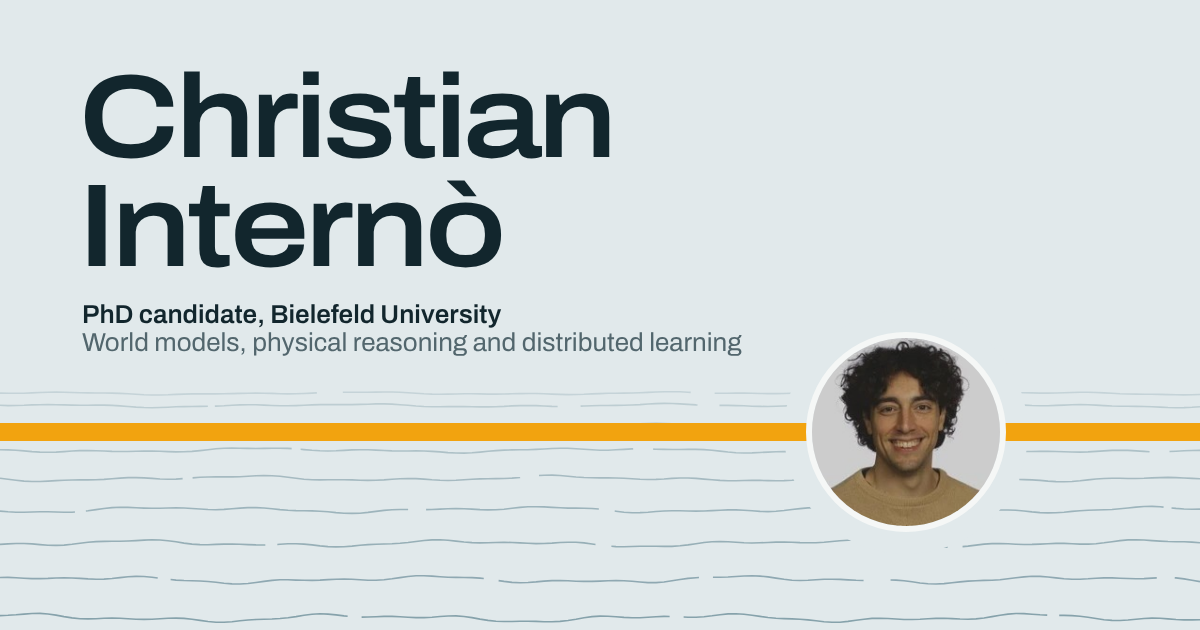
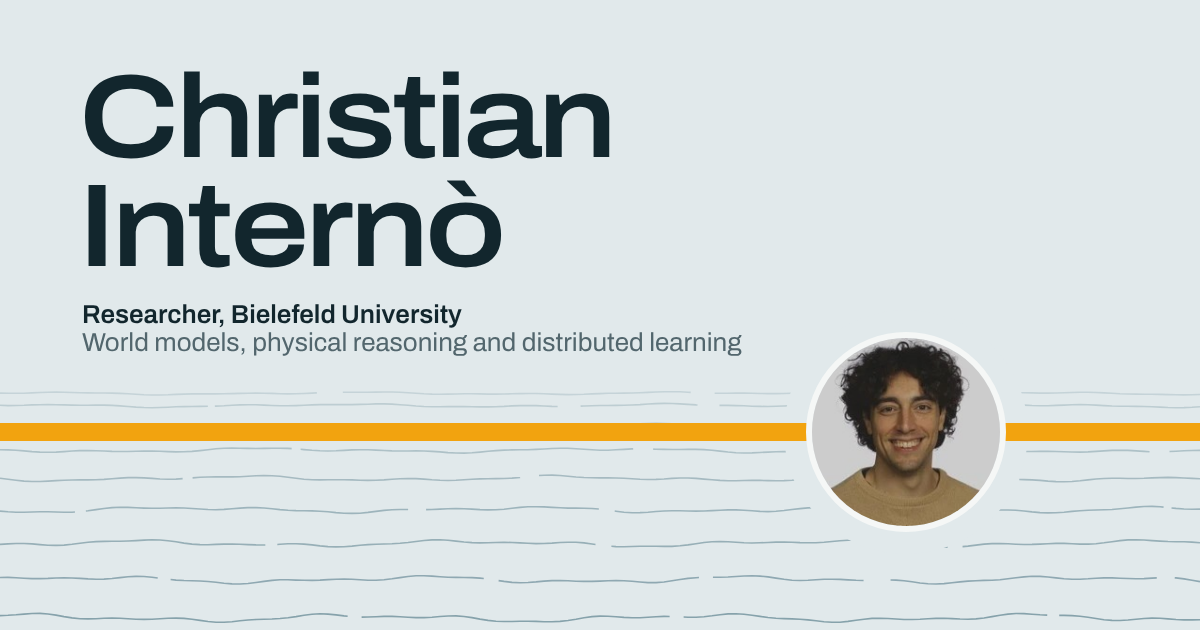
Restructure the bio; let the walkway reach for the news
The About text now follows three paragraphs: position, funding, Oxford and
recent results; the research focus and its aim; distributed learning, visits
and studies. The panel and link preview say "Researcher, Bielefeld
University". With the longer bio, the walkway bends at the edge of the lake
to meet the "Recently" landing and follows it while the page scrolls.

Claude-Session: https://claude.ai/code/session_016HWyQwJ7GHMMbU4mYpH3em

Changed region(s): [[0.0617, 0.4825, 0.4317, 0.5127]]

diff --git a/assets/js/lake.js b/assets/js/lake.js
@@ -94,18 +94,39 @@
       ln.el.setAttribute("points",pts(a));
     });
     V.spans.forEach(function(sp){
-      var len=sp.b-sp.a, n=Math.max(1,Math.ceil(len/6));
-      a=[]; for(i=0;i<=n;i++){ x=sp.a+len*i/n;
-        a.push(x, sp.y+0.75*Math.sin(Math.PI*i/n)*(0.6*swell(x,sp.y)+height(x,sp.y))); }   // moored at both ends
+      a=[];
+      sp.legs.forEach(function(lg){                 // each straight run floats, moored at both ends
+        var len=lg.b-lg.a, n=Math.max(1,Math.ceil(len/6));
+        for(i=0;i<=n;i++){ x=lg.a+len*i/n;
+          a.push(x, lg.y+0.75*Math.sin(Math.PI*i/n)*(0.6*swell(x,lg.y)+height(x,lg.y))); }
+      });
       sp.el.setAttribute("points",pts(a));
     });
+  }
+  function spanLen(sp){var L=0; sp.legs.forEach(function(lg,k){L+=lg.b-lg.a; if(k) L+=Math.abs(lg.y-sp.legs[k-1].y);}); return L;}
+
+  // On the About page the walkway reaches for the news: when the "Recently" landing is level with the
+  // water, the last stretch of the walkway bends to meet it, and follows it while you scroll.
+  var tRaf=0;
+  function requestTether(){ if(!tRaf) tRaf=requestAnimationFrame(function(){tRaf=0; tether(true);}); }
+  function tether(redraw){
+    var T=V&&V.tether; if(!T) return;
+    var entry=T.yIn+shore.getBoundingClientRect().top-lake.getBoundingClientRect().top;
+    var near=entry>=T.lo&&entry<=T.hi, goal=near?entry:T.y0;
+    if(T.locked&&near) T.cur=goal;
+    else { T.cur+=(goal-T.cur)*0.22; if(Math.abs(goal-T.cur)<0.6){T.cur=goal; T.locked=near;} else requestTether(); }
+    if(!near) T.locked=false;
+    var y=Math.round(T.cur);
+    T.sp.legs=Math.abs(y-T.y0)<1?[{a:T.a,b:V.LW,y:T.y0}]:[{a:T.a,b:T.xb,y:T.y0},{a:T.xb,b:V.LW,y:y}];
+    if(redraw) draw();
   }
 
   /* ---------- the walkway on the page ---------- */
   function plen(p){var L=0;for(var i=1;i<p.length;i++)L+=Math.abs(p[i][0]-p[i-1][0])+Math.abs(p[i][1]-p[i-1][1]);return L;}
-  function lay(el,len,delay){       // draw a line in, once, the first time the walkway is laid out
-    el.style.strokeDasharray=len+20; el.style.strokeDashoffset=len+20;
-    el.style.transition="stroke-dashoffset "+Math.round(len/1.1)+"ms linear "+Math.round(delay)+"ms";
+  function lay(el,delay){           // draw a line in, once, the first time the walkway is laid out
+    var BIG=10000;                   // longer than any walkway, so later bends never fall into the gap
+    el.style.strokeDasharray=BIG+" "+BIG; el.style.strokeDashoffset=BIG;
+    el.style.transition="stroke-dashoffset "+Math.round(BIG/1.1)+"ms linear "+Math.round(delay)+"ms";
   }
 
   function layout(){
@@ -126,7 +147,7 @@
     }
     function railFrom(y){return [[-4,y],[railX,y],[railX,bot]];}
 
-    var spans=[], shoreSegs=[], top=0, bottom=0, isle=null;
+    var spans=[], shoreSegs=[], top=0, bottom=0, isle=null, tether_=null;
     if(wide){
       var lk=rel(links,lake), mw=me.offsetWidth, ring=12;
       me.style.left=Math.round(Math.max(ring+16,LW*.22))+"px";
@@ -140,8 +161,13 @@
       me.style.top=Math.round(c-mw/2)+"px";
       var m=rel(me,lake), y0=Math.round(m.cy);
       isle={x:m.cx,y:m.cy,r:m.w/2+ring};
-      spans=[{a:0,b:m.l+2,y:y0},{a:m.r-2,b:LW,y:y0}];
-      if(hasRail){
+      spans=[{legs:[{a:0,b:m.l+2,y:y0}]},{legs:[{a:m.r-2,b:LW,y:y0}]}];
+      if(home&&hasRail){
+        shoreSegs=[railFrom(yIn)];
+        var tt={sp:spans[1],a:m.r-2,xb:Math.round(LW-30),y0:y0,lo:top+10,hi:bottom-10,yIn:yIn};
+        var e0=yIn+shore.getBoundingClientRect().top-lake.getBoundingClientRect().top;
+        tt.locked=e0>=tt.lo&&e0<=tt.hi; tt.cur=tt.locked?e0:y0; tether_=tt;
+      } else if(hasRail){
         if(aligned) shoreSegs=[railFrom(yIn)];
         else if(y0>=yIn&&y0<=Math.max(bot,stop)) shoreSegs=[[[-4,y0],[railX,y0]],[[railX,yIn],[railX,Math.max(bot,y0)]]];
         else shoreSegs=[railFrom(yIn)];
@@ -152,14 +178,14 @@
         var m2=rel(me,lake);
         top=Math.round(rel(who,lake).b+18); bottom=Math.round(rel(links,lake).t-14);
         isle={x:m2.cx,y:m2.cy,r:m2.w/2+10};
-        spans=[{a:0,b:m2.l+2,y:Math.round(m2.cy)}];
+        spans=[{legs:[{a:0,b:m2.l+2,y:Math.round(m2.cy)}]}];
       }
       if(hasRail) shoreSegs=[railFrom(yIn)];
       else if(a) shoreSegs=[[[-4,Math.round(a.b+9)],[Math.round(a.l+56),Math.round(a.b+9)]]];
     }
 
     // the surface: lines closer together towards the far shore, and calmer there
-    water.innerHTML=""; V={LW:LW,lines:[],spans:[]}; W=null;
+    water.innerHTML=""; V={LW:LW,lines:[],spans:[],tether:tether_}; W=null;
     if(bottom-top>60){
       var n=clamp(Math.round((bottom-top)/30),5,13), g=node("g","lines");
       water.appendChild(g);
@@ -172,7 +198,7 @@
       makeWater(LW,top-24,bottom+24,isle);
     }
     spans.forEach(function(sp){var pl=node("polyline","pier"); pl.setAttribute("stroke-width",sw); water.appendChild(pl); sp.el=pl; V.spans.push(sp);});
-    draw();
+    tether(false); draw();
 
     ws.innerHTML="";
     var shoreEls=shoreSegs.map(function(s){var p=node("polyline"); p.setAttribute("points",s.map(function(q){return q[0]+","+q[1];}).join(" "));
@@ -180,14 +206,14 @@
 
     if(drawIn){
       var t=350;
-      V.spans.forEach(function(sp){var len=sp.b-sp.a; lay(sp.el,len,t); sp.at=t; t+=len/1.1;});
-      shoreEls.forEach(function(p,k){var len=plen(shoreSegs[k]); lay(p,len,t); t+=len/1.1;});
+      V.spans.forEach(function(sp){lay(sp.el,t); sp.at=t; t+=spanLen(sp)/1.1;});
+      shoreEls.forEach(function(p,k){lay(p,t); t+=plen(shoreSegs[k])/1.1;});
       water.getBoundingClientRect(); ws.getBoundingClientRect();
       V.spans.concat(shoreEls.map(function(e){return {el:e};})).forEach(function(s){s.el.style.strokeDashoffset=0;});
       // laying the walkway on the water sets it rocking, once
       if(isle&&V.spans.length) setTimeout(function(){
         poke(isle.x-isle.r-10,isle.y,14); poke(isle.x+isle.r+10,isle.y,14);
-      }, V.spans[0].at+(V.spans[0].b-V.spans[0].a)/1.1);
+      }, V.spans[0].at+spanLen(V.spans[0])/1.1);
       visit.set("walked",1); drawIn=false;
     }
     lake.classList.add("ready");
@@ -215,6 +241,7 @@
   function start(){
     layout();
     window.addEventListener("resize",schedule);
+    window.addEventListener("scroll",function(){ if(V&&V.tether) requestTether(); },{passive:true});
     if("ResizeObserver" in window) new ResizeObserver(schedule).observe(document.body);
     [].forEach.call(document.querySelectorAll("details"),function(d){d.addEventListener("toggle",now);});
   }

diff --git a/index.html b/index.html
@@ -26,7 +26,7 @@
 <link rel="stylesheet" href="/assets/css/site.css">
 <script src="/assets/js/lake.js" defer></script>
 <noscript><style>.bibbox[hidden]{display:block}</style></noscript>
-<script type="application/ld+json">{"@context": "https://schema.org", "@type": "Person", "name": "Christian Internò", "url": "https://christianinterno.com/", "image": "https://christianinterno.com/assets/img/me.jpg", "jobTitle": "PhD candidate in machine learning", "email": "mailto:christian.interno@uni-bielefeld.de", "knowsAbout": ["Representation learning", "World models", "Physical reasoning", "Distributed learning"], "affiliation": [{"@type": "CollegeOrUniversity", "name": "Bielefeld University"}, {"@type": "Organization", "name": "Honda Research Institute Europe"}, {"@type": "CollegeOrUniversity", "name": "University of Oxford"}], "sameAs": ["https://scholar.google.com/citations?user=melu9g0AAAAJ", "https://github.com/ChristianInterno", "https://huggingface.co/CInterno", "https://www.linkedin.com/in/christian-interno/", "https://x.com/ChrisInterno", "https://dblp.org/pid/358/4928.html"]}</script>
+<script type="application/ld+json">{"@context": "https://schema.org", "@type": "Person", "name": "Christian Internò", "url": "https://christianinterno.com/", "image": "https://christianinterno.com/assets/img/me.jpg", "jobTitle": "Machine learning researcher", "email": "mailto:christian.interno@uni-bielefeld.de", "knowsAbout": ["Representation learning", "World models", "Physical reasoning", "Distributed learning"], "affiliation": [{"@type": "CollegeOrUniversity", "name": "Bielefeld University"}, {"@type": "Organization", "name": "Honda Research Institute Europe"}, {"@type": "CollegeOrUniversity", "name": "University of Oxford"}], "sameAs": ["https://scholar.google.com/citations?user=melu9g0AAAAJ", "https://github.com/ChristianInterno", "https://huggingface.co/CInterno", "https://www.linkedin.com/in/christian-interno/", "https://x.com/ChrisInterno", "https://dblp.org/pid/358/4928.html"]}</script>
 </head>
 <body class="home">
 <a class="skip" href="#content">Skip to content</a>
@@ -36,7 +36,7 @@
   <svg class="water" id="water" aria-hidden="true"></svg>
   <div class="id">
     <h1 class="name"><span>Christian</span> <span>Internò</span></h1>
-    <p class="who" id="who"><b>PhD candidate, Bielefeld University</b>World models, physical reasoning and distributed learning.</p>
+    <p class="who" id="who"><b>Researcher, Bielefeld University</b>World models, physical reasoning and distributed learning.</p>
   </div>
   <img class="me" id="me" src="/assets/img/me.jpg" width="200" height="200" alt="Portrait of Christian Internò">
   <p class="map" id="lbl-lake" aria-hidden="true">Lago d’Iseo, simulated</p>
@@ -56,8 +56,9 @@
   <div id="content">
   <section class="bio col" aria-label="About">
     <p class="lead">I study how neural networks model the physical world, and how they learn together.</p>
-    <p>I’m a PhD candidate at Bielefeld University with <a href="https://hammer-lab.techfak.uni-bielefeld.de/">Barbara Hammer</a>, working with the <a href="https://www.honda-ri.de/">Honda Research Institute Europe</a>, and a Visiting Fellow in Philip Torr’s <a href="https://torrvision.com/">Torr Vision Group</a> at the University of Oxford. Most of my work is on world models and physical reasoning: I read the geometry of learned representations to find out what networks know about physics, and use it to tell whether a generated video could really happen. I also work on distributed learning, where many models learn together without sharing their data.</p>
-    <p>Before that I was a visiting researcher at <a href="https://www.cshl.edu/">Cold Spring Harbor Laboratory</a> and Leiden University, and I studied data science at the University of Milano-Bicocca. Off the clock, you’ll find me surfing, at the cinema or at a concert.</p>
+    <p>I am a researcher at Bielefeld University, working with <a href="https://hammer-lab.techfak.uni-bielefeld.de/">Barbara Hammer</a>; my PhD is funded by the <a href="https://www.honda-ri.de/">Honda Research Institute Europe</a>. After a Visiting Fellowship in Philip Torr’s <a href="https://torrvision.com/">Torr Vision Group</a> at the <a href="https://www.ox.ac.uk/">University of Oxford</a>, I continue to work with the group on world models for video. Recently, <a href="/GeoPhys/">GeoPhys</a> took first place on both <a href="https://github.com/google-deepmind/physics-IQ-benchmark">Physics&#8209;IQ</a> video-to-video leaderboards, and two of my papers were accepted at NeurIPS 2026. I review for NeurIPS, ICML and IJCNN, and have <a href="/mentoring/">mentored master’s students</a> at the Honda Research Institute.</p>
+    <p>My <a href="/research/">research</a> focuses on world models and physical reasoning: I read the geometry of learned representations to find out what neural networks know about physics, and use it to tell whether a generated video could really happen. Broadly, I want physical plausibility to become something we can measure: principled ways to read physics out of a model without changing it, and to put that structure to work as a prior for learning, a verifier at inference time and a diagnostic for anomalies.</p>
+    <p>Alongside this, I work on distributed learning, where many models learn together without sharing their data; that line includes an oral at the NeurIPS 2024 workshop on federated foundation models. I have been a visiting researcher at <a href="https://www.cshl.edu/">Cold Spring Harbor Laboratory</a> and Leiden University, and I studied data science at the University of Milano-Bicocca. Off the clock, you’ll find me surfing, at the cinema or at a concert.</p>
   </section>
 
   <section class="col" id="news" data-rail aria-labelledby="anchor">

diff --git a/404.html b/404.html
@@ -35,7 +35,7 @@
   <svg class="water" id="water" aria-hidden="true"></svg>
   <div class="id">
     <p class="name"><a href="/"><span>Christian</span> <span>Internò</span></a></p>
-    <p class="who" id="who"><b>PhD candidate, Bielefeld University</b>World models, physical reasoning and distributed learning.</p>
+    <p class="who" id="who"><b>Researcher, Bielefeld University</b>World models, physical reasoning and distributed learning.</p>
   </div>
   <img class="me" id="me" src="/assets/img/me.jpg" width="200" height="200" alt="Portrait of Christian Internò">
   <p class="map" id="lbl-lake" aria-hidden="true">Lago d’Iseo, simulated</p>

diff --git a/code/index.html b/code/index.html
@@ -35,7 +35,7 @@
   <svg class="water" id="water" aria-hidden="true"></svg>
   <div class="id">
     <p class="name"><a href="/"><span>Christian</span> <span>Internò</span></a></p>
-    <p class="who" id="who"><b>PhD candidate, Bielefeld University</b>World models, physical reasoning and distributed learning.</p>
+    <p class="who" id="who"><b>Researcher, Bielefeld University</b>World models, physical reasoning and distributed learning.</p>
   </div>
   <img class="me" id="me" src="/assets/img/me.jpg" width="200" height="200" alt="Portrait of Christian Internò">
   <p class="map" id="lbl-lake" aria-hidden="true">Lago d’Iseo, simulated</p>

diff --git a/mentoring/index.html b/mentoring/index.html
@@ -35,7 +35,7 @@
   <svg class="water" id="water" aria-hidden="true"></svg>
   <div class="id">
     <p class="name"><a href="/"><span>Christian</span> <span>Internò</span></a></p>
-    <p class="who" id="who"><b>PhD candidate, Bielefeld University</b>World models, physical reasoning and distributed learning.</p>
+    <p class="who" id="who"><b>Researcher, Bielefeld University</b>World models, physical reasoning and distributed learning.</p>
   </div>
   <img class="me" id="me" src="/assets/img/me.jpg" width="200" height="200" alt="Portrait of Christian Internò">
   <p class="map" id="lbl-lake" aria-hidden="true">Lago d’Iseo, simulated</p>

diff --git a/publications/index.html b/publications/index.html
@@ -35,7 +35,7 @@
   <svg class="water" id="water" aria-hidden="true"></svg>
   <div class="id">
     <p class="name"><a href="/"><span>Christian</span> <span>Internò</span></a></p>
-    <p class="who" id="who"><b>PhD candidate, Bielefeld University</b>World models, physical reasoning and distributed learning.</p>
+    <p class="who" id="who"><b>Researcher, Bielefeld University</b>World models, physical reasoning and distributed learning.</p>
   </div>
   <img class="me" id="me" src="/assets/img/me.jpg" width="200" height="200" alt="Portrait of Christian Internò">
   <p class="map" id="lbl-lake" aria-hidden="true">Lago d’Iseo, simulated</p>

diff --git a/research/index.html b/research/index.html
@@ -35,7 +35,7 @@
   <svg class="water" id="water" aria-hidden="true"></svg>
   <div class="id">
     <p class="name"><a href="/"><span>Christian</span> <span>Internò</span></a></p>
-    <p class="who" id="who"><b>PhD candidate, Bielefeld University</b>World models, physical reasoning and distributed learning.</p>
+    <p class="who" id="who"><b>Researcher, Bielefeld University</b>World models, physical reasoning and distributed learning.</p>
   </div>
   <img class="me" id="me" src="/assets/img/me.jpg" width="200" height="200" alt="Portrait of Christian Internò">
   <p class="map" id="lbl-lake" aria-hidden="true">Lago d’Iseo, simulated</p>

diff --git a/talks/index.html b/talks/index.html
@@ -35,7 +35,7 @@
   <svg class="water" id="water" aria-hidden="true"></svg>
   <div class="id">
     <p class="name"><a href="/"><span>Christian</span> <span>Internò</span></a></p>
-    <p class="who" id="who"><b>PhD candidate, Bielefeld University</b>World models, physical reasoning and distributed learning.</p>
+    <p class="who" id="who"><b>Researcher, Bielefeld University</b>World models, physical reasoning and distributed learning.</p>
   </div>
   <img class="me" id="me" src="/assets/img/me.jpg" width="200" height="200" alt="Portrait of Christian Internò">
   <p class="map" id="lbl-lake" aria-hidden="true">Lago d’Iseo, simulated</p>

diff --git a/content.py b/content.py
@@ -10,7 +10,7 @@ Authors: write full names; add a trailing * for equal contribution.
 SITE = {
     "name": "Christian Internò",
     "url": "https://christianinterno.com",
-    "title": "PhD candidate, Bielefeld University",
+    "title": "Researcher, Bielefeld University",
     "interests": "World models, physical reasoning and distributed learning.",
     "tagline": "I study how neural networks model the physical world, and how they learn together.",
     "email": "christian.interno@uni-bielefeld.de",
@@ -29,14 +29,22 @@ SITE = {
 }
 
 BIO = [
-    'I’m a PhD candidate at Bielefeld University with <a href="https://hammer-lab.techfak.uni-bielefeld.de/">Barbara Hammer</a>, '
-    'working with the <a href="https://www.honda-ri.de/">Honda Research Institute Europe</a>, and a Visiting Fellow in Philip Torr’s '
-    '<a href="https://torrvision.com/">Torr Vision Group</a> at the University of Oxford. Most of my work is on world models and '
-    'physical reasoning: I read the geometry of learned representations to find out what networks know about physics, and use it '
-    'to tell whether a generated video could really happen. I also work on distributed learning, where many models learn together '
-    'without sharing their data.',
-    'Before that I was a visiting researcher at <a href="https://www.cshl.edu/">Cold Spring Harbor Laboratory</a> and Leiden University, '
-    'and I studied data science at the University of Milano-Bicocca. Off the clock, you’ll find me surfing, at the cinema or at a concert.',
+    'I am a researcher at Bielefeld University, working with <a href="https://hammer-lab.techfak.uni-bielefeld.de/">Barbara Hammer</a>; '
+    'my PhD is funded by the <a href="https://www.honda-ri.de/">Honda Research Institute Europe</a>. After a Visiting Fellowship in '
+    'Philip Torr’s <a href="https://torrvision.com/">Torr Vision Group</a> at the <a href="https://www.ox.ac.uk/">University of Oxford</a>, '
+    'I continue to work with the group on world models for video. Recently, <a href="/GeoPhys/">GeoPhys</a> took first place on both '
+    '<a href="https://github.com/google-deepmind/physics-IQ-benchmark">Physics&#8209;IQ</a> video-to-video leaderboards, and two of my '
+    'papers were accepted at NeurIPS 2026. I review for NeurIPS, ICML and IJCNN, and have '
+    '<a href="/mentoring/">mentored master’s students</a> at the Honda Research Institute.',
+    'My <a href="/research/">research</a> focuses on world models and physical reasoning: I read the geometry of learned '
+    'representations to find out what neural networks know about physics, and use it to tell whether a generated video could '
+    'really happen. Broadly, I want physical plausibility to become something we can measure: principled ways to read physics '
+    'out of a model without changing it, and to put that structure to work as a prior for learning, a verifier at inference time '
+    'and a diagnostic for anomalies.',
+    'Alongside this, I work on distributed learning, where many models learn together without sharing their data; that line '
+    'includes an oral at the NeurIPS 2024 workshop on federated foundation models. I have been a visiting researcher at '
+    '<a href="https://www.cshl.edu/">Cold Spring Harbor Laboratory</a> and Leiden University, and I studied data science at the '
+    'University of Milano-Bicocca. Off the clock, you’ll find me surfing, at the cinema or at a concert.',
 ]
 
 # Newest first. The first `NEWS_SHOWN` items are visible; the rest fold under "Earlier news".

diff --git a/build.py b/build.py
@@ -512,7 +512,7 @@ def not_found():
 def person_ld():
     data = {
         "@context": "https://schema.org", "@type": "Person", "name": ME, "url": URL + "/",
-        "image": URL + "/assets/img/me.jpg", "jobTitle": "PhD candidate in machine learning",
+        "image": URL + "/assets/img/me.jpg", "jobTitle": "Machine learning researcher",
         "email": "mailto:" + C.SITE["email"],
         "knowsAbout": ["Representation learning", "World models", "Physical reasoning", "Distributed learning"],
         "affiliation": [
